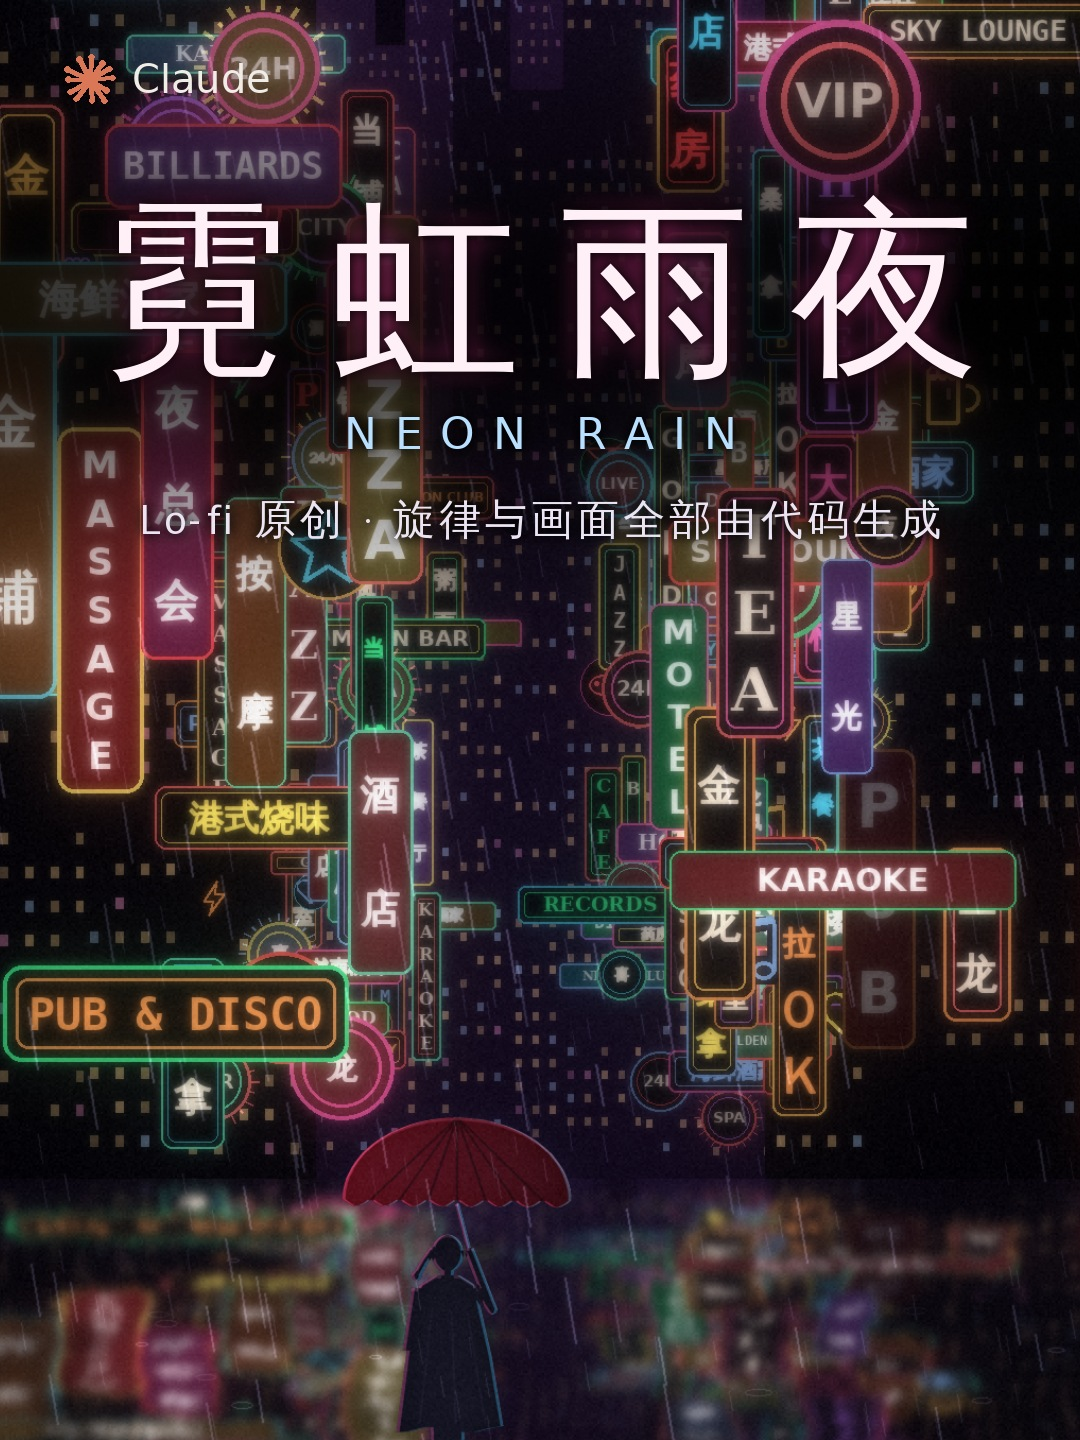
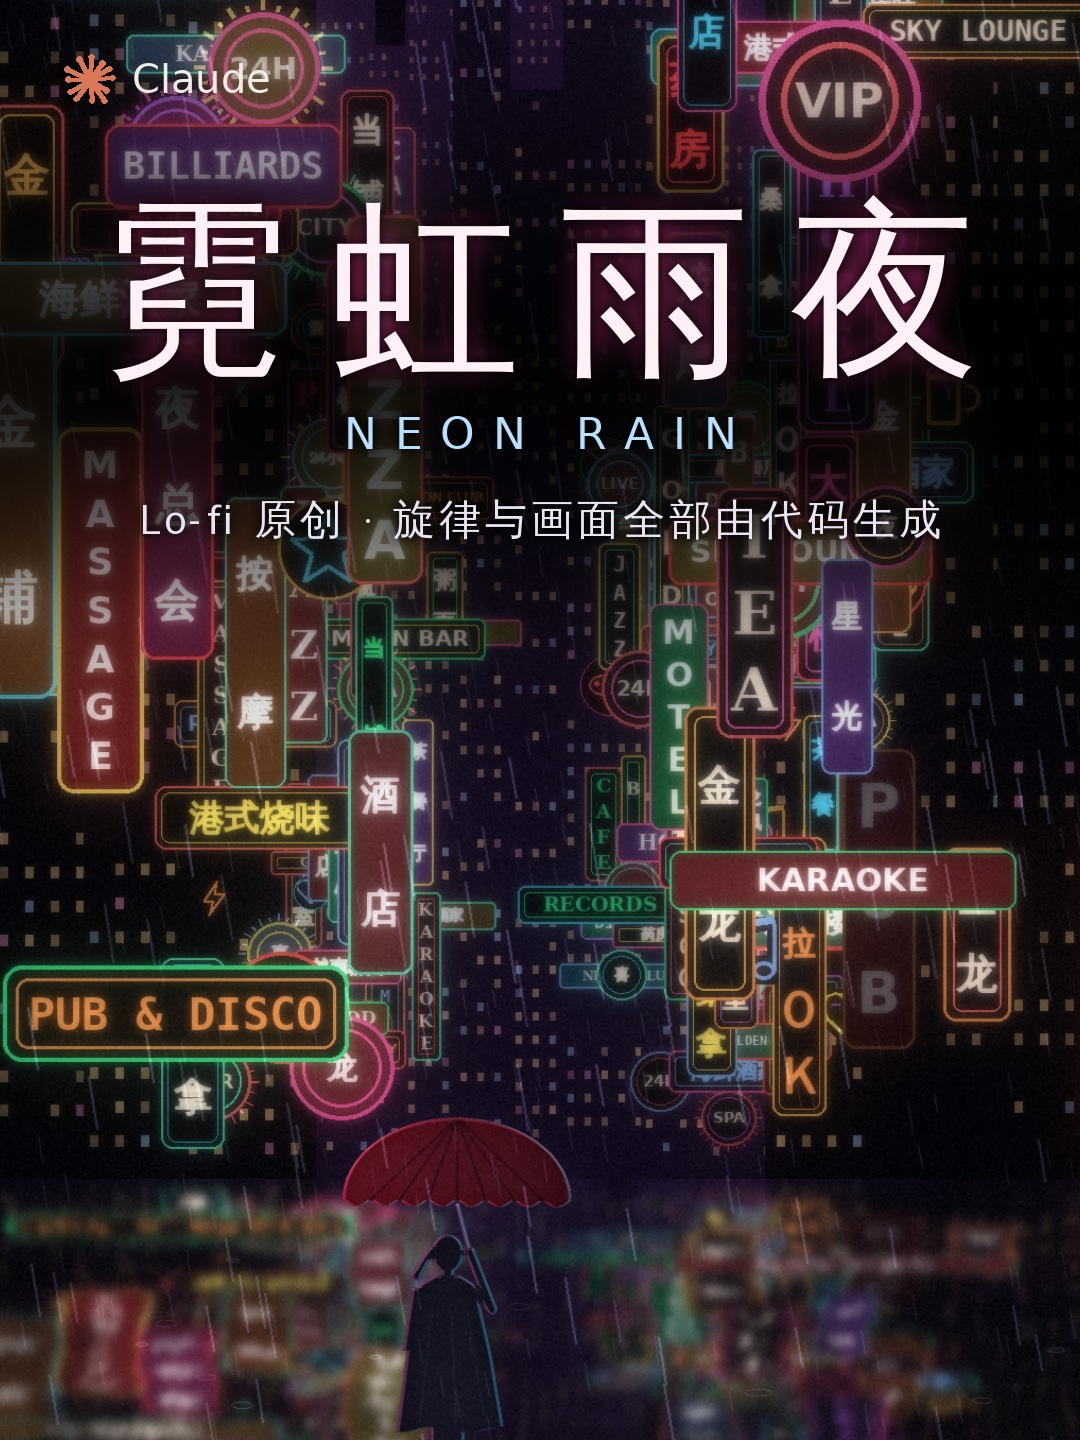
Douyin release pack: three-video publishing plan, copy, settings, comments; clearer cover text
Claude-Session: https://claude.ai/code/session_01VdfstdBLkaf3oZ95Mfc4bo

Changed region(s): [[0.0, 0.25, 0.4278, 0.4688], [0.5194, 0.25, 0.8861, 0.4688], [0.2139, 0.4688, 0.2444, 0.5]]

diff --git a/music_video/make_cover.py b/music_video/make_cover.py
@@ -37,8 +37,9 @@ def compose(base, w, h, ty, mark_xy):
     """base: 裁好尺寸的底图；ty: 标题的垂直位置（占画面高度的比例）"""
     s = min(w, h) / 1080
     arr = np.asarray(base).astype(np.float32)
-    yy = np.linspace(0, 1, h)[:, None, None]
-    arr *= 1 - 0.78 * np.exp(-((yy - ty - 0.13 * 1080 / h) / (0.2 * 1080 / h)) ** 2)    # 标题区域压暗
+    yy = np.arange(h, dtype=np.float32)[:, None, None]
+    # 标题 + 英文名 + 副标题整块压暗（用像素而不是比例，竖屏 / 3:4 都读得清）
+    arr *= 1 - 0.86 * np.exp(-((yy - (h * ty + 200 * s)) / (240 * s)) ** 2)
     out = Image.fromarray(np.clip(arr, 0, 255).astype(np.uint8)).convert("RGBA")
     zh = ImageFont.truetype(rv.ZH, int(190 * s))
     glow = Image.new("RGBA", (w, h), (0, 0, 0, 0))

diff --git a/music_video/douyin/抖音发布文案.md b/music_video/douyin/抖音发布文案.md
@@ -1,26 +1,39 @@
-# 《霓虹雨夜》抖音发布材料
+# 《霓虹雨夜 Neon Rain》抖音发布包
 
-## 1. 发哪个视频
+## 1. 发布顺序与文件
 
-| 版本 | 文件 | 建议 |
-|---|---|---|
-| **短版 53 秒（推荐首发）** | `music_video/douyin/neon_rain_douyin_53s.mp4` | 从鼓点进入的那一刻开始：三块大招牌依次亮起，招牌越来越多，中间一遍完整主旋律，结尾灯火渐熄、片尾标题。开头叠加标题，适合推荐流，完播率更高 |
-| 完整版 128 秒 | `music_video/neon_rain_9x16.mp4` | 隔 1–2 天作为第二条发，或者放进合集，给想听完整版的人 |
+| 顺序 | 版本 | 文件 | 作用 |
+|---|---|---|---|
+| ① 先发 | **16 秒预告** | `music_video/douyin/neon_rain_douyin_16s.mp4`（9MB） | 开头就是满屏招牌，完播率最高，当「预告片」引流 |
+| ② 隔 1–2 天 | **53 秒首发版** | `music_video/douyin/neon_rain_douyin_53s.mp4`（29MB） | 鼓点进入 → 招牌逐块亮起 → 主旋律一遍 → 灯火熄灭，完整的小故事 |
+| ③ 可选 | 128 秒完整版 | `music_video/neon_rain_9x16.mp4`（65MB，**旧画面，需重渲后再发**） | 给想听完整版的人，不急 |
 
-- 都是 1080×1920、30fps、H.264，直接上传**原文件**（不要用 30MB 版，抖音会再压一次）。
-- 不要发横屏版：在抖音里会上下留黑边，画面只占三分之一。
-- 画面：雨夜港风「招牌峡谷」——沿街道往里看，两侧中英文招牌层层叠叠，背景是高楼大厦，路面有车灯光轨和湿地面倒影，路中间一个撑红伞的人。招牌上的店名都是虚构的。
+- 只想发一条：发 **53 秒版**。
+- 都是 1080×1920、30fps、H.264，直接上传**原文件**（抖音会再压一次，不要用压缩版）。
+- 不要发横屏版：抖音里上下留黑边，画面只占三分之一。
+- 画面：雨夜港风「招牌峡谷」——两侧中英文招牌层层叠叠，背景高楼，磨砂玻璃般的湿地面倒影，路中间一个撑伞缓步的人。招牌店名都是虚构的。
 
 ## 2. 封面
 
 | 位置 | 文件 |
 |---|---|
 | 推荐流 / 作品页（9:16） | `music_video/cover_9x16.jpg` |
-| 主页作品格（3:4） | `music_video/cover_3x4.jpg`（上传时如果要求 3:4 裁剪，用这张，免得标题被裁掉） |
+| 主页作品格（3:4） | `music_video/cover_3x4.jpg`（上传时要求 3:4 裁剪就用它，标题不会被裁） |
 
-也可以不用封面图，直接在编辑页选帧：短版第 **1.5 秒**（标题 + 霓虹）效果最好。
+- 封面上的标题、英文名、副标题都有暗带衬底，缩略图里也能读清。
+- 不想用封面图：在编辑页选 16 秒版或 53 秒版第 **1.5 秒**的帧（标题 + 满屏招牌）。
 
-## 3. 文案（选一条直接复制，话题已包含）
+## 3. 文案（直接复制，话题已包含）
+
+> 抖音推荐页只显示开头一两行：**第一行要短、要有画面**。话题 5–7 个。
+
+### ① 16 秒预告
+```
+整条街的霓虹，在雨里亮了 🌧 港风 × Lo-fi，戴上耳机
+#港风 #霓虹 #lofi #雨声 #城市夜景 #原创音乐 #AI创作
+```
+
+### ② 53 秒首发版（三选一）
 
 **A. 氛围向（推荐）**
 ```
@@ -40,29 +53,33 @@
 #学习音乐 #lofi #雨声 #助眠 #治愈系 #原创音乐 #AI创作
 ```
 
-完整版可以用：
+### ③ 128 秒完整版
 ```
-完整版来了 🌧《霓虹雨夜》128 秒，窗灯跟着节拍亮起，又一盏盏熄灭
-#lofi #原创音乐 #雨声 #AI创作 #城市夜景
+完整版来了 🌧《霓虹雨夜》128 秒，招牌跟着节拍亮起，又一块块熄灭
+#lofi #原创音乐 #雨声 #AI创作 #城市夜景 #港风
 ```
 
-> 话题控制在 5–7 个；文案第一行要短，推荐页只显示开头一两行。
+## 4. 发布设置（每条都要过一遍）
 
-## 4. 发布设置
-
-- [ ] **作品声明**：选择「内容由 AI 生成」（必选；不声明可能被限流或下架）
-- [ ] **原声**：保留视频原声，不要另加抖音曲库的背景音乐。发布后在原声页把名称改成「霓虹雨夜 Neon Rain（原创 Lo-fi）」（能改的话），别人用你的原声时会带上名字
-- [ ] **合集**：新建合集「代码写的音乐」，以后的作品都放进去
+- [ ] **作品声明**：选「内容由 AI 生成」（必选；不声明可能被限流或下架）
+- [ ] **原声**：保留视频原声，不要另加抖音曲库的音乐。发布后在原声页把名称改成「霓虹雨夜 Neon Rain（原创 Lo-fi）」（能改的话）
+- [ ] **合集**：新建「代码写的音乐」，三条都放进去，以后的作品也放这里
 - [ ] **谁可以看**：公开
-- [ ] **允许下载 / 合拍 / 拼接**：建议都打开，lo-fi 很容易被拿去当学习、vlog 的背景音乐，能带来曝光
+- [ ] **允许下载 / 合拍 / 拼接**：建议都打开，lo-fi 容易被拿去当学习、vlog 的背景音乐，带来曝光
 - [ ] **位置 / 商品 / 小程序**：不填
-- [ ] **发布时间**：晚上 21:00–23:30（深夜雨夜的氛围最契合），周末也可以下午 14:00–17:00
+- [ ] **发布时间**：晚上 21:00–23:30（雨夜氛围最契合）；周末可选下午 14:00–17:00
 
 ## 5. 置顶评论（发布后自己评论并置顶）
 
+**16 秒预告**
 ```
-🎧 戴耳机听！第 1 秒鼓点一进来，霓虹就跟着亮了
-完整 128 秒版在合集里～ 下一首想听什么风格？评论告诉我
+🎧 戴耳机听！完整 53 秒版在合集里～
+```
+
+**53 秒首发版**
+```
+🎧 戴耳机听！鼓点一进来，霓虹就跟着亮了
+想听更长的循环版扣 1，人多就做～ 下一首想听什么风格？评论告诉我
 ```
 
 ## 6. 互动回复模板
@@ -71,32 +88,27 @@
 |---|---|
 | 「求 BGM / 歌名」 | 原创的～ 叫《霓虹雨夜》，点视频左下角的原声就能用 🎵 |
 | 「真的是 AI 做的吗」 | 是的，旋律、音色、画面都是 AI（Claude）写代码生成的，没有用任何乐器和素材，我负责策划和挑选 |
+| 「这是哪里 / 哪条街」 | 虚构的街道，参考了港风霓虹的感觉，招牌店名都是编的 😄 |
 | 「能出长版吗」 | 128 秒完整版在合集里；想听更长的循环版扣 1，人多就做 |
 
-## 7. 注意事项
+## 7. 发布前检查与注意事项
 
-1. **Claude 标志**：竖屏版放在左上角往下约 12% 的位置，避开抖音推荐页左上角的菜单 / 直播图标、右侧的点赞栏和底部文案区。标志是手绘近似的星芒，不是官方文件；个人非商业分享通常没问题，不要用于带货或商业推广，也不要暗示是 Anthropic 官方作品。
+**在手机上看一遍（我没法在真机预览）**
+- [ ] 左上角 Claude 标志、开头标题没被抖音界面挡住（安全区：上 12%、下 20%、右 15%）
+- [ ] 16 秒版约 10.6 秒处两段衔接的音乐是否自然
+- [ ] 53 秒版 31.4–32 秒的 0.6 秒叠化（会有轻微重影，属预期）
+- [ ] 尾声招牌熄灭时，后面的招牌是否正常透出来（没有黑块）
+
+**说明**
+1. **Claude 标志**：手绘近似的星芒，不是官方文件。个人非商业分享通常没问题，不要用于带货或商业推广，也不要暗示是 Anthropic 官方作品。
 2. **版权**：旋律、和声、音色都是原创合成，不会被识别成别人的歌。
-3. **短版剪辑点**：31.4–32 秒有一个 0.6 秒的画面叠化（从主歌跳到尾声），音乐正好切在小节线上，节拍是连贯的。
-4. **店名**：招牌文字都是虚构的通用店名，没有使用真实店铺的名字或商标。
-5. **重新生成短版**：`cd music_video/douyin && python3 make_short.py`（需要先有 `music_video/neon_rain_9x16.mp4`）。
+3. **店名**：招牌文字都是虚构的通用名字，没有使用真实店铺的名字或商标。
+4. **128 秒完整版是旧画面**（亮度和人物都是旧版），要发的话先让我按最新画面重渲（约 13 分钟）。
 
----
+## 8. 重新生成
 
-## 8. 16 秒精简版
-
-| 项目 | 内容 |
-|---|---|
-| 文件 | `music_video/douyin/neon_rain_douyin_16s.mp4`（1080×1920，16.0 秒，约 9MB） |
-| 结构 | 开头就是满屏招牌，叠加标题（0.2–3.3 秒）→ 主旋律前 4 小节，招牌还在陆续点亮 → 10.4 秒叠化 → 旋律收束、灯火熄灭、标题再现、淡出 |
-| 适合 | 想要高完播率、做合集预告、或者作为 53 秒版的「预告片」先发 |
-| 发法 | 文案和话题沿用第 3 节；置顶评论改成「完整 53 秒版在合集里 🎧」 |
-
-16 秒文案（直接复制）：
+```bash
+cd music_video/douyin && python3 make_short16.py     # 16 秒版，约 4.5 分钟
+cd music_video/douyin && python3 make_short.py       # 53 秒版，约 8.5 分钟
+cd music_video && python3 make_cover.py --portrait   # 封面
 ```
-整条街的霓虹，在雨里亮了 🌧 港风 × Lo-fi，戴上耳机
-#港风 #霓虹 #lofi #雨声 #城市夜景 #原创音乐 #AI创作
-```
-- 同样要选「内容由 AI 生成」，封面用 `cover_9x16.jpg`，或者在编辑页选 1.5 秒处的帧（标题 + 满屏招牌）。
-- 重新生成：`cd music_video/douyin && python3 make_short16.py`（约 4.5 分钟）。
-
